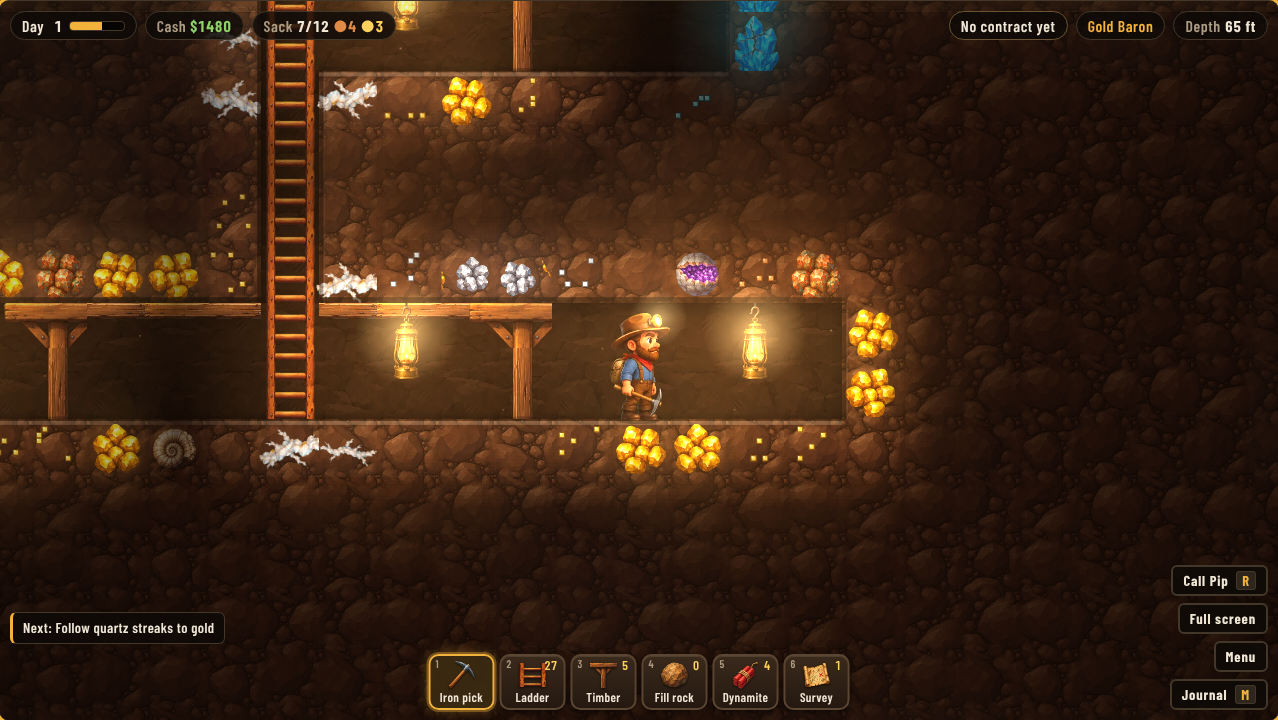
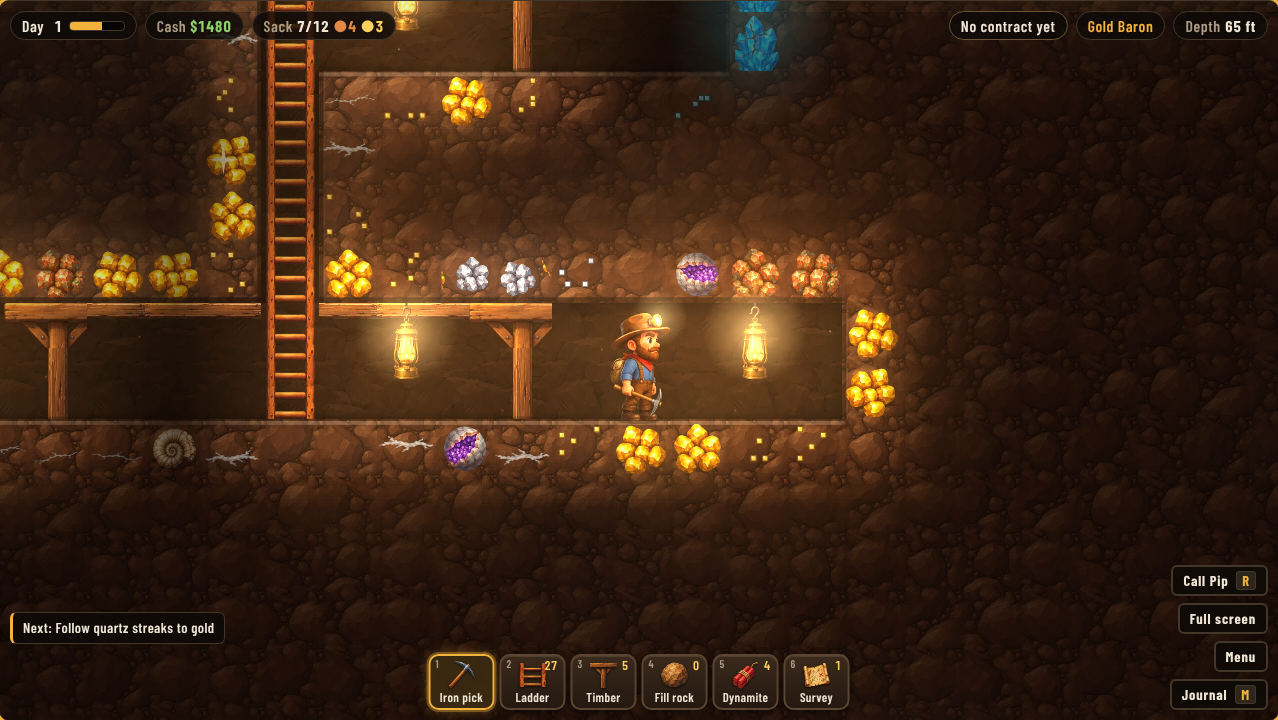
Make the quartz veins thinner and fainter
The veins that point toward gold were too bright and heavy on the
painted rock. The thick crystal vein is no longer used; the closest
vein is now the medium one, flattened, and the two farther strengths
use the hairline vein. All three are drawn well below full strength,
so they read as a hint in the rock: about 30%, 50% and 72%.

Claude-Session: https://claude.ai/code/session_01MRT5Ws11QEHHuG9dHs9ttN

diff --git a/deepvein.html b/deepvein.html
@@ -1783,9 +1783,9 @@ function draw(){
       if(exp&&!ore&&t!==BED&&t!==GRASS){let near=0;for(let a=-1;a<=1&&!near;a++)for(let b=-1;b<=1;b++){const n=get(x+a,y+b);if(isOre(n)||n===LODE){near=n===LODE?GOLD:n;break;}}
         if(near){for(let k=0;k<4;k++){const fx=X+P*(.14+((hh>>(k*3))%7)/10),fy=Y+P*(.14+((hh>>(k*3+9))%7)/10),fs=Math.max(2,P*.07);g.fillStyle=ICOL[near][0];g.fillRect(fx-1,fy-1,fs+2,fs+2);g.fillStyle=ICOL[near][2];g.fillRect(fx,fy,fs,fs);g.fillStyle=ICOL[near][3];g.fillRect(fx,fy,fs*.45,fs*.45);}
           if(Math.hypot(x+.5-p.x,y+.5-p.y)<4)fleckNear=true;}
-        else if((t===STONE||t===DEEP||t===GRAN)&&has('vein1')&&PROX[i]>=2&&PROX[i]<=qLim){const qd=PROX[i],nm=qd===2?'vein3':qd===3?'vein2':'vein1',f=SPR[nm],w=P*(qd===2?1.08:1.02),h=w*f.h/f.w;
+        else if((t===STONE||t===DEEP||t===GRAN)&&has('vein1')&&PROX[i]>=2&&PROX[i]<=qLim){const qd=PROX[i],nm=qd===2?'vein2':'vein1',f=SPR[nm],w=P*(qd===2?.96:qd===3?.92:.8),h=w*f.h/f.w*(qd===2?.62:.7);
           // a painted vein across the block, flipped and nudged per block so a run of them does not look stamped
-          g.save();g.translate(X+P*.5,Y+P*(.34+((hh>>>5)%5)*.08));g.scale(hh&1?-1:1,(hh>>>1)&1?-1:1);g.rotate((((hh>>>9)%7)-3)*.035);g.globalAlpha=qd===2?1:qd===3?.88:.7;frameBox(nm,-w/2,-h/2,w,h);g.restore();g.globalAlpha=1;
+          g.save();g.translate(X+P*.5,Y+P*(.34+((hh>>>5)%5)*.08));g.scale(hh&1?-1:1,(hh>>>1)&1?-1:1);g.rotate((((hh>>>9)%7)-3)*.035);g.globalAlpha=qd===2?.72:qd===3?.5:.3;frameBox(nm,-w/2,-h/2,w,h);g.restore();g.globalAlpha=1;
           if(Math.hypot(x+.5-p.x,y+.5-p.y)<5)quartzNear=true;}
         else if(t===STONE||t===DEEP||t===GRAN){const qd=PROX[i];if(qd>=2&&qd<=qLim){const o1=(hh%5)/10;const pth=()=>{g.beginPath();g.moveTo(X+P*.04,Y+P*(.2+o1));g.lineTo(X+P*.28,Y+P*(.3+o1));g.lineTo(X+P*.5,Y+P*(.42+o1*.5));g.lineTo(X+P*.74,Y+P*(.34+o1*.6));g.lineTo(X+P*.96,Y+P*(.3+o1*.8));if(qd===2){g.moveTo(X+P*.18,Y+P*(.82-o1*.3));g.lineTo(X+P*.5,Y+P*(.72-o1*.1));g.lineTo(X+P*.82,Y+P*(.68+o1*.2));g.moveTo(X+P*.5,Y+P*(.42+o1*.5));g.lineTo(X+P*.6,Y+P*(.62+o1*.2));}};
           const al=qd===2?.85:qd===3?.46:.28;g.strokeStyle=`rgba(255,255,255,${al*.28})`;g.lineWidth=Math.max(3,P*(qd===2?.2:.12));pth();g.stroke();g.strokeStyle=`rgba(246,242,232,${al})`;g.lineWidth=Math.max(1.5,P*(qd===2?.09:.05));pth();g.stroke();

diff --git a/releases/deepvein-2.0.html b/releases/deepvein-2.0.html
@@ -1783,9 +1783,9 @@ function draw(){
       if(exp&&!ore&&t!==BED&&t!==GRASS){let near=0;for(let a=-1;a<=1&&!near;a++)for(let b=-1;b<=1;b++){const n=get(x+a,y+b);if(isOre(n)||n===LODE){near=n===LODE?GOLD:n;break;}}
         if(near){for(let k=0;k<4;k++){const fx=X+P*(.14+((hh>>(k*3))%7)/10),fy=Y+P*(.14+((hh>>(k*3+9))%7)/10),fs=Math.max(2,P*.07);g.fillStyle=ICOL[near][0];g.fillRect(fx-1,fy-1,fs+2,fs+2);g.fillStyle=ICOL[near][2];g.fillRect(fx,fy,fs,fs);g.fillStyle=ICOL[near][3];g.fillRect(fx,fy,fs*.45,fs*.45);}
           if(Math.hypot(x+.5-p.x,y+.5-p.y)<4)fleckNear=true;}
-        else if((t===STONE||t===DEEP||t===GRAN)&&has('vein1')&&PROX[i]>=2&&PROX[i]<=qLim){const qd=PROX[i],nm=qd===2?'vein3':qd===3?'vein2':'vein1',f=SPR[nm],w=P*(qd===2?1.08:1.02),h=w*f.h/f.w;
+        else if((t===STONE||t===DEEP||t===GRAN)&&has('vein1')&&PROX[i]>=2&&PROX[i]<=qLim){const qd=PROX[i],nm=qd===2?'vein2':'vein1',f=SPR[nm],w=P*(qd===2?.96:qd===3?.92:.8),h=w*f.h/f.w*(qd===2?.62:.7);
           // a painted vein across the block, flipped and nudged per block so a run of them does not look stamped
-          g.save();g.translate(X+P*.5,Y+P*(.34+((hh>>>5)%5)*.08));g.scale(hh&1?-1:1,(hh>>>1)&1?-1:1);g.rotate((((hh>>>9)%7)-3)*.035);g.globalAlpha=qd===2?1:qd===3?.88:.7;frameBox(nm,-w/2,-h/2,w,h);g.restore();g.globalAlpha=1;
+          g.save();g.translate(X+P*.5,Y+P*(.34+((hh>>>5)%5)*.08));g.scale(hh&1?-1:1,(hh>>>1)&1?-1:1);g.rotate((((hh>>>9)%7)-3)*.035);g.globalAlpha=qd===2?.72:qd===3?.5:.3;frameBox(nm,-w/2,-h/2,w,h);g.restore();g.globalAlpha=1;
           if(Math.hypot(x+.5-p.x,y+.5-p.y)<5)quartzNear=true;}
         else if(t===STONE||t===DEEP||t===GRAN){const qd=PROX[i];if(qd>=2&&qd<=qLim){const o1=(hh%5)/10;const pth=()=>{g.beginPath();g.moveTo(X+P*.04,Y+P*(.2+o1));g.lineTo(X+P*.28,Y+P*(.3+o1));g.lineTo(X+P*.5,Y+P*(.42+o1*.5));g.lineTo(X+P*.74,Y+P*(.34+o1*.6));g.lineTo(X+P*.96,Y+P*(.3+o1*.8));if(qd===2){g.moveTo(X+P*.18,Y+P*(.82-o1*.3));g.lineTo(X+P*.5,Y+P*(.72-o1*.1));g.lineTo(X+P*.82,Y+P*(.68+o1*.2));g.moveTo(X+P*.5,Y+P*(.42+o1*.5));g.lineTo(X+P*.6,Y+P*(.62+o1*.2));}};
           const al=qd===2?.85:qd===3?.46:.28;g.strokeStyle=`rgba(255,255,255,${al*.28})`;g.lineWidth=Math.max(3,P*(qd===2?.2:.12));pth();g.stroke();g.strokeStyle=`rgba(246,242,232,${al})`;g.lineWidth=Math.max(1.5,P*(qd===2?.09:.05));pth();g.stroke();

diff --git a/src/game.js b/src/game.js
@@ -1390,9 +1390,9 @@ function draw(){
       if(exp&&!ore&&t!==BED&&t!==GRASS){let near=0;for(let a=-1;a<=1&&!near;a++)for(let b=-1;b<=1;b++){const n=get(x+a,y+b);if(isOre(n)||n===LODE){near=n===LODE?GOLD:n;break;}}
         if(near){for(let k=0;k<4;k++){const fx=X+P*(.14+((hh>>(k*3))%7)/10),fy=Y+P*(.14+((hh>>(k*3+9))%7)/10),fs=Math.max(2,P*.07);g.fillStyle=ICOL[near][0];g.fillRect(fx-1,fy-1,fs+2,fs+2);g.fillStyle=ICOL[near][2];g.fillRect(fx,fy,fs,fs);g.fillStyle=ICOL[near][3];g.fillRect(fx,fy,fs*.45,fs*.45);}
           if(Math.hypot(x+.5-p.x,y+.5-p.y)<4)fleckNear=true;}
-        else if((t===STONE||t===DEEP||t===GRAN)&&has('vein1')&&PROX[i]>=2&&PROX[i]<=qLim){const qd=PROX[i],nm=qd===2?'vein3':qd===3?'vein2':'vein1',f=SPR[nm],w=P*(qd===2?1.08:1.02),h=w*f.h/f.w;
+        else if((t===STONE||t===DEEP||t===GRAN)&&has('vein1')&&PROX[i]>=2&&PROX[i]<=qLim){const qd=PROX[i],nm=qd===2?'vein2':'vein1',f=SPR[nm],w=P*(qd===2?.96:qd===3?.92:.8),h=w*f.h/f.w*(qd===2?.62:.7);
           // a painted vein across the block, flipped and nudged per block so a run of them does not look stamped
-          g.save();g.translate(X+P*.5,Y+P*(.34+((hh>>>5)%5)*.08));g.scale(hh&1?-1:1,(hh>>>1)&1?-1:1);g.rotate((((hh>>>9)%7)-3)*.035);g.globalAlpha=qd===2?1:qd===3?.88:.7;frameBox(nm,-w/2,-h/2,w,h);g.restore();g.globalAlpha=1;
+          g.save();g.translate(X+P*.5,Y+P*(.34+((hh>>>5)%5)*.08));g.scale(hh&1?-1:1,(hh>>>1)&1?-1:1);g.rotate((((hh>>>9)%7)-3)*.035);g.globalAlpha=qd===2?.72:qd===3?.5:.3;frameBox(nm,-w/2,-h/2,w,h);g.restore();g.globalAlpha=1;
           if(Math.hypot(x+.5-p.x,y+.5-p.y)<5)quartzNear=true;}
         else if(t===STONE||t===DEEP||t===GRAN){const qd=PROX[i];if(qd>=2&&qd<=qLim){const o1=(hh%5)/10;const pth=()=>{g.beginPath();g.moveTo(X+P*.04,Y+P*(.2+o1));g.lineTo(X+P*.28,Y+P*(.3+o1));g.lineTo(X+P*.5,Y+P*(.42+o1*.5));g.lineTo(X+P*.74,Y+P*(.34+o1*.6));g.lineTo(X+P*.96,Y+P*(.3+o1*.8));if(qd===2){g.moveTo(X+P*.18,Y+P*(.82-o1*.3));g.lineTo(X+P*.5,Y+P*(.72-o1*.1));g.lineTo(X+P*.82,Y+P*(.68+o1*.2));g.moveTo(X+P*.5,Y+P*(.42+o1*.5));g.lineTo(X+P*.6,Y+P*(.62+o1*.2));}};
           const al=qd===2?.85:qd===3?.46:.28;g.strokeStyle=`rgba(255,255,255,${al*.28})`;g.lineWidth=Math.max(3,P*(qd===2?.2:.12));pth();g.stroke();g.strokeStyle=`rgba(246,242,232,${al})`;g.lineWidth=Math.max(1.5,P*(qd===2?.09:.05));pth();g.stroke();
